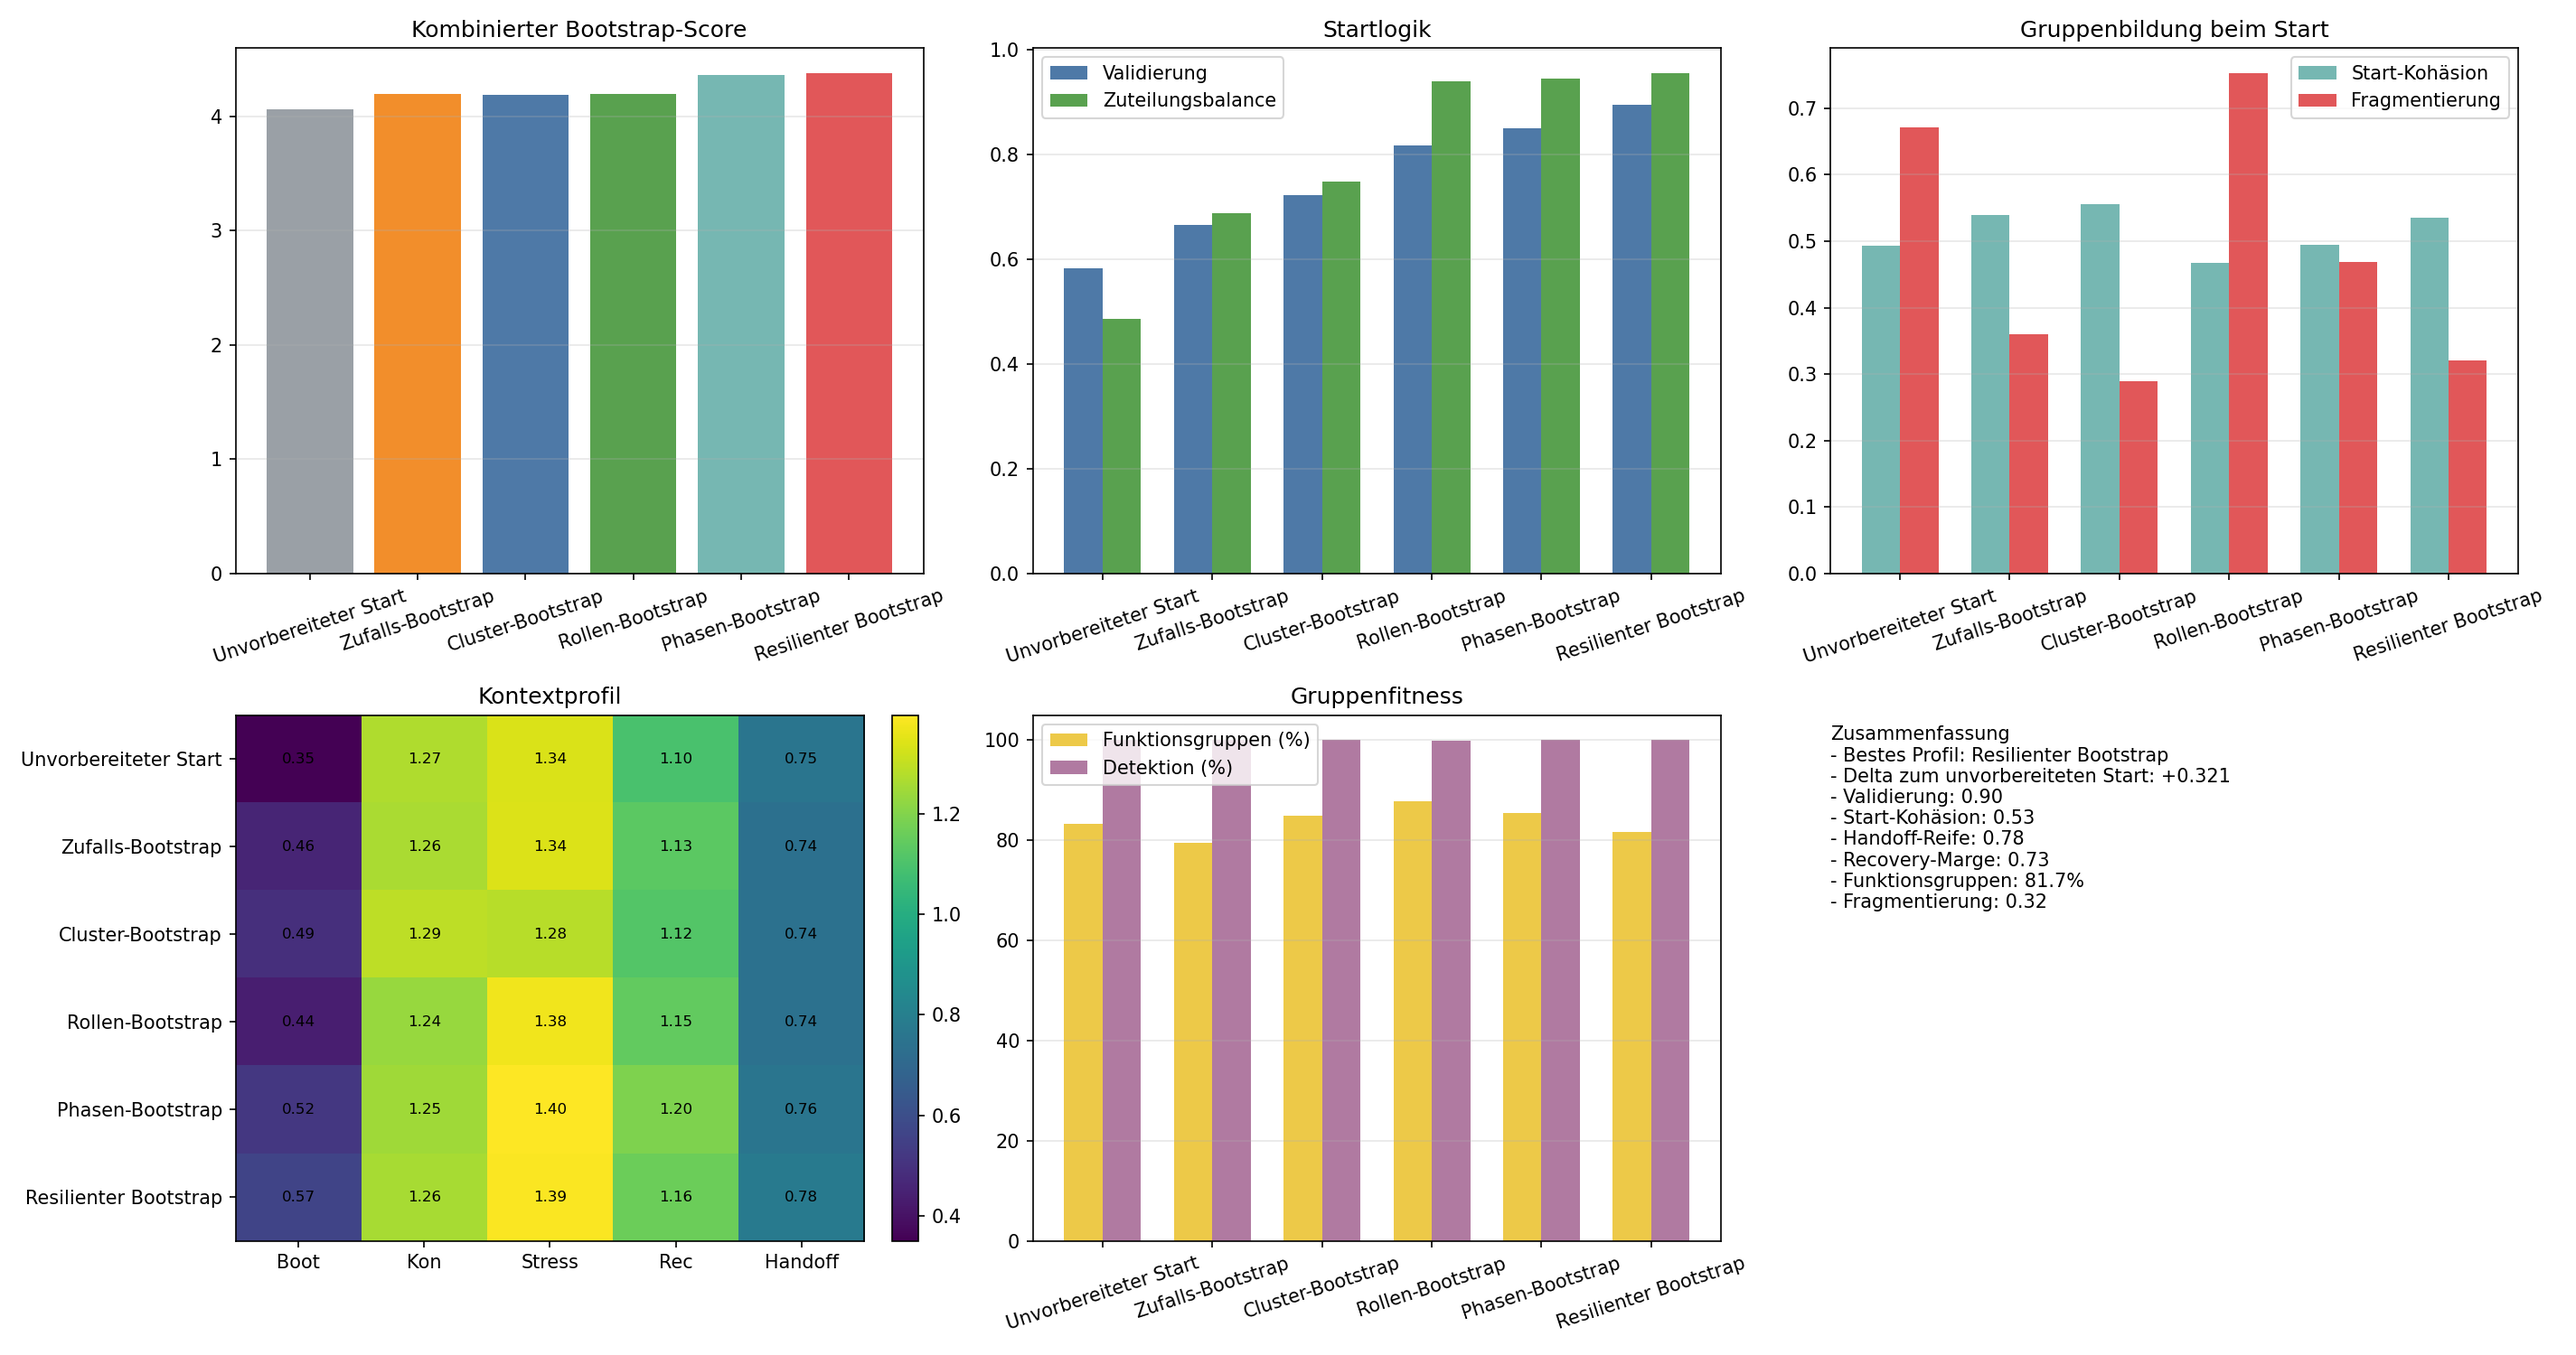
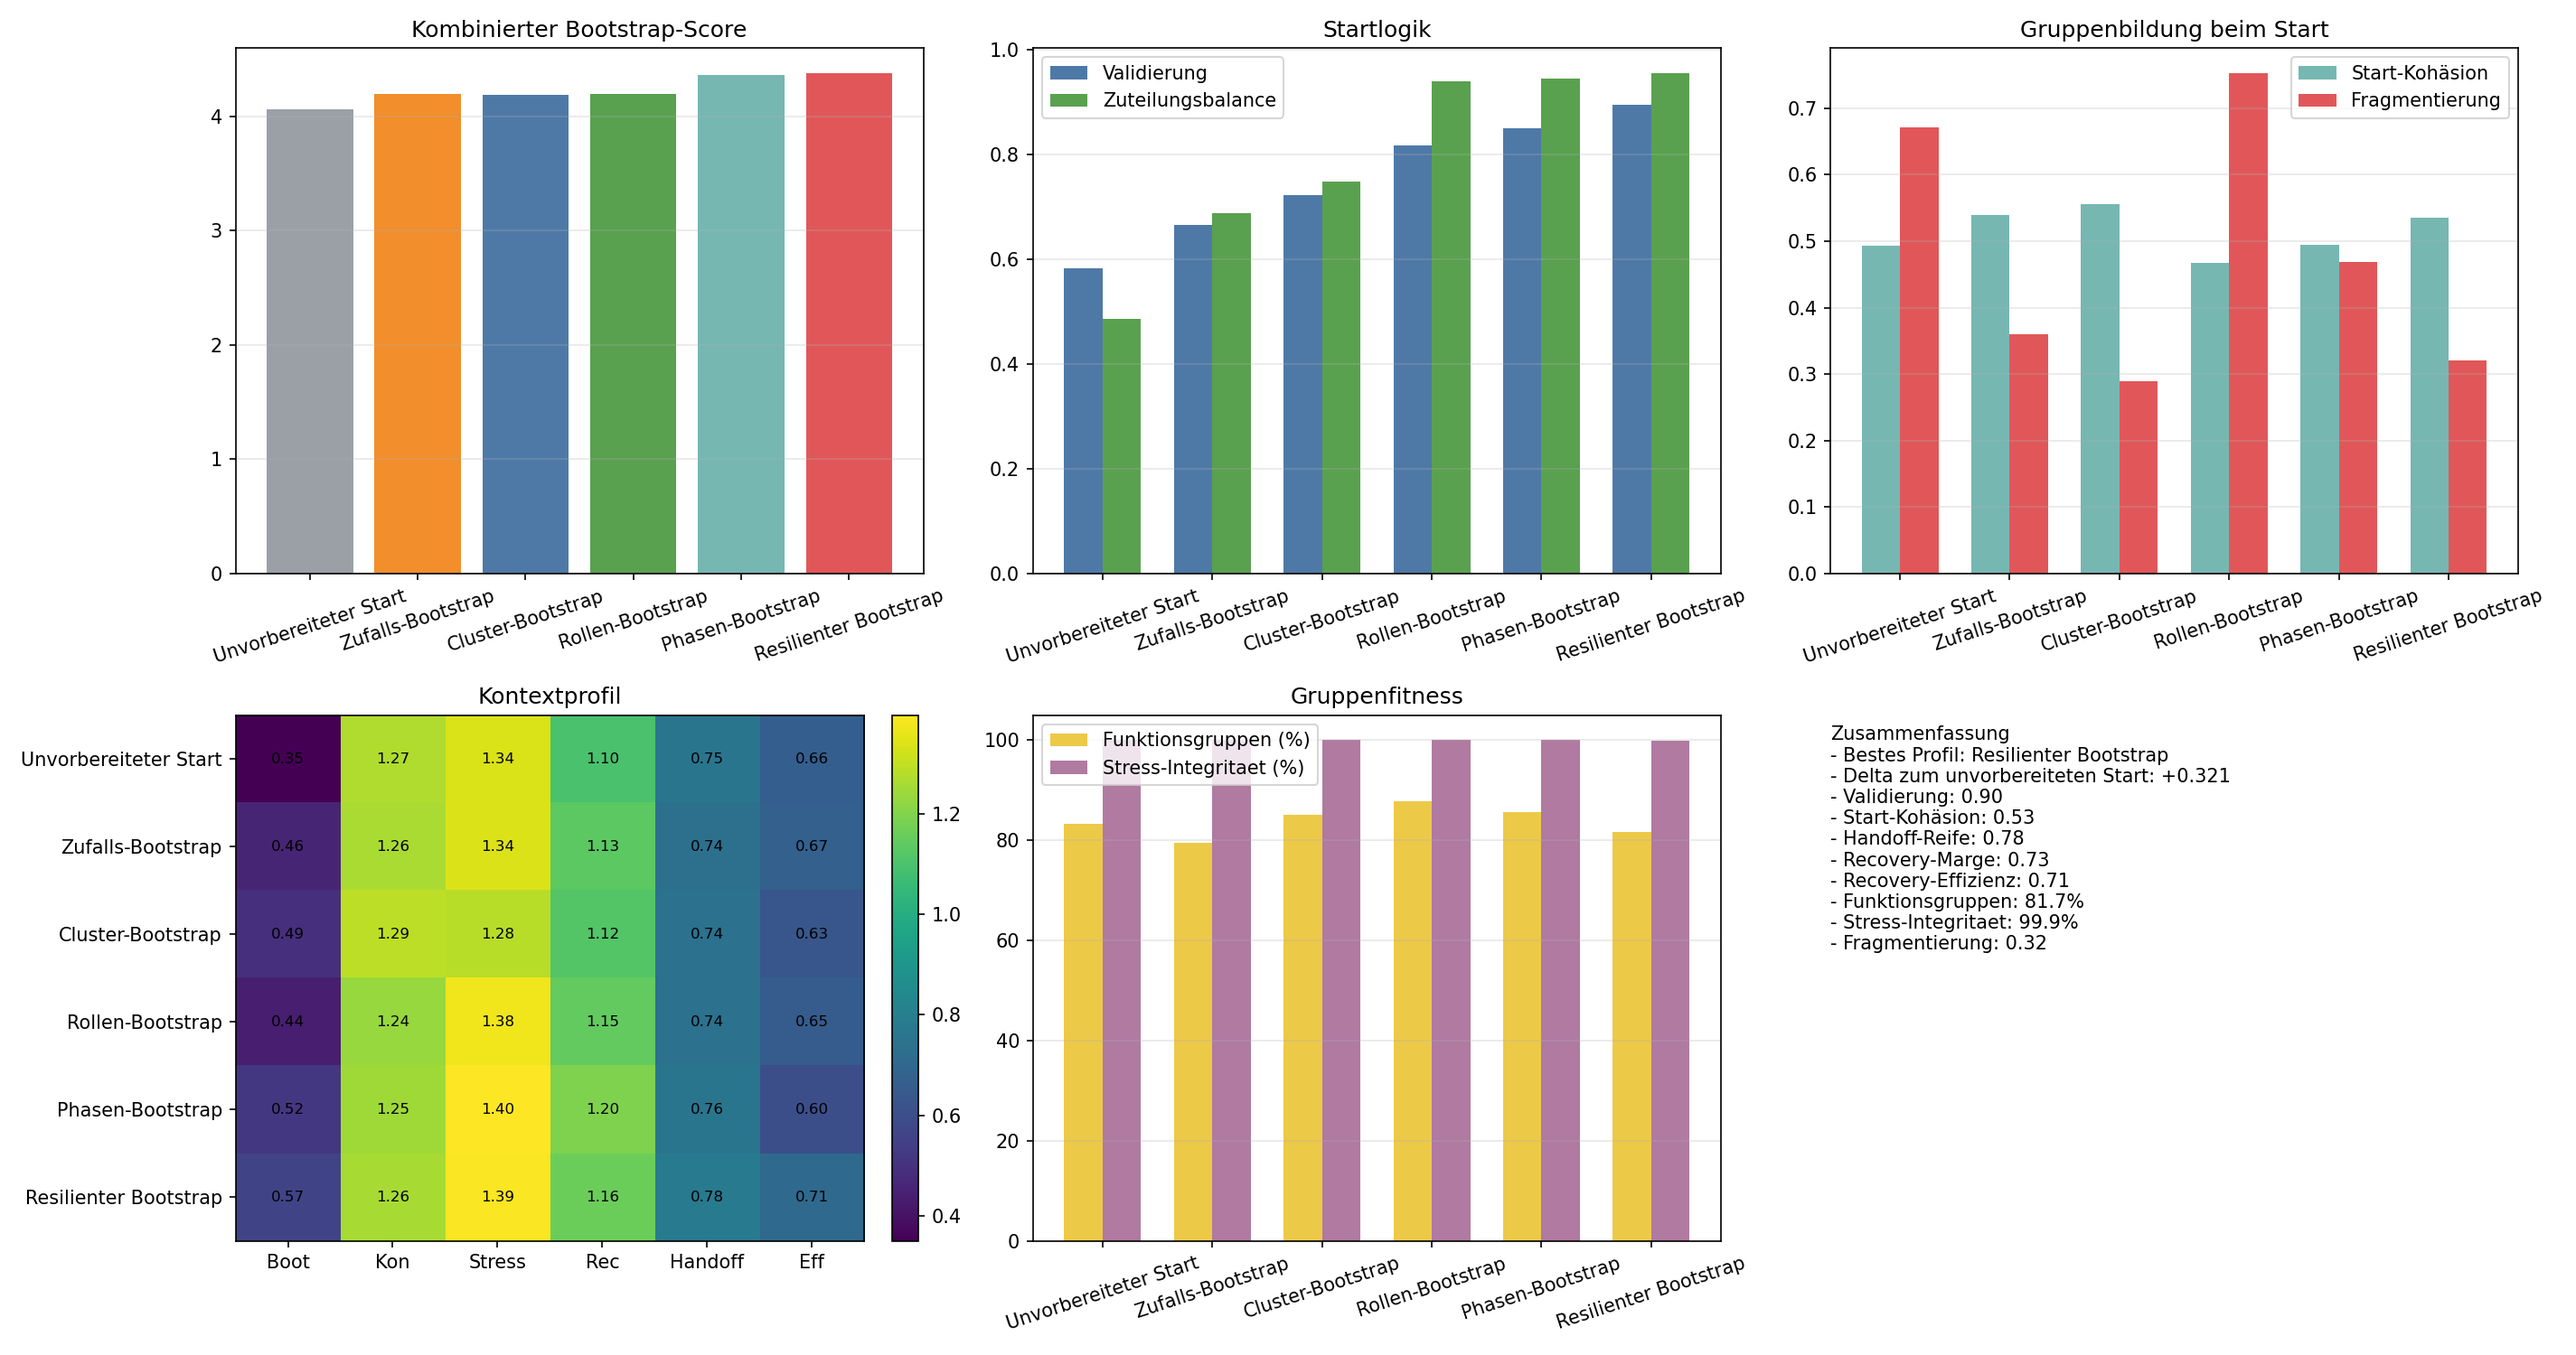
Refine bootstrap recovery metrics

diff --git a/schwarm_gruppenbootstrap.py b/schwarm_gruppenbootstrap.py
@@ -257,6 +257,11 @@ def bootstrap_metrics(config, result, params, bias):
     workflow = result['workflow_metrics']
     groups = gruppenmetriken(result['agents'], params)
     schema = schema_metrics(config)
+    corruption_mean = workflow.get('misinformation_corruption_mean', 0.0)
+    cluster_compromise_mean = workflow.get('cluster_compromise_mean', 0.0)
+    recovery_events_total = workflow.get('recovery_events_total', 0.0)
+    sync_strength_mean = workflow.get('sync_strength_mean', 0.0)
+    failed_agents_mean = workflow.get('failed_agents_mean', 0.0)
 
     proto_share = groups['proto_group_share']
     functional_share = groups['functional_group_share']
@@ -354,6 +359,21 @@ def bootstrap_metrics(config, result, params, bias):
         + 0.14 * schema['contract_risk']
         + 0.14 * max(0.0, 0.16 - proto_share) / 0.16
     )
+    failed_share = failed_agents_mean / max(1.0, params['agent_count'])
+    recovery_load = min(1.0, recovery_events_total / max(1.0, params['agent_count'] * 0.25))
+    stress_integrity = max(0.0, 1.0 - corruption_mean)
+    compromise_reserve = max(0.0, 1.0 - cluster_compromise_mean)
+    recovery_efficiency = clamp01(
+        mittelwert(
+            [
+                min(1.0, sync_strength_mean),
+                max(0.0, 1.0 - failed_share),
+                max(0.0, 1.0 - recovery_load),
+                recovery_margin,
+                compromise_reserve,
+            ]
+        )
+    )
 
     return {
         'completion_rate': workflow.get('completion_rate', 0.0),
@@ -365,12 +385,16 @@ def bootstrap_metrics(config, result, params, bias):
         'resource_share_rate': workflow.get('resource_share_rate', 0.0),
         'active_cells_mean': workflow.get('active_cells_mean', 0.0),
         'detection_rate': workflow.get('misinformation_detection_rate', 0.0),
-        'corruption_mean': workflow.get('misinformation_corruption_mean', 0.0),
-        'cluster_compromise_mean': workflow.get('cluster_compromise_mean', 0.0),
+        'corruption_mean': corruption_mean,
+        'stress_integrity': stress_integrity,
+        'cluster_compromise_mean': cluster_compromise_mean,
+        'compromise_reserve': compromise_reserve,
         'trust_shield_mean': workflow.get('trust_shield_mean', 0.0),
-        'recovery_events_total': workflow.get('recovery_events_total', 0.0),
-        'sync_strength_mean': workflow.get('sync_strength_mean', 0.0),
-        'failed_agents_mean': workflow.get('failed_agents_mean', 0.0),
+        'recovery_events_total': recovery_events_total,
+        'sync_strength_mean': sync_strength_mean,
+        'failed_agents_mean': failed_agents_mean,
+        'recovery_load': recovery_load,
+        'recovery_efficiency': recovery_efficiency,
         'mission_success': mittelwert(list(result.get('mission_success_rates', {}).values())),
         'cross_group_cooperation': result['cross_group_cooperation_rate'],
         'consensus': result['final_consensus_score'],
@@ -492,8 +516,12 @@ def summarize_runs(runs, eintrag, context_list, agent_count):
         'fragmentation_risk': {},
         'functional_group_share': {},
         'detection_rate': {},
+        'stress_integrity': {},
+        'compromise_reserve': {},
         'recovery_margin': {},
         'sync_strength_mean': {},
+        'recovery_load': {},
+        'recovery_efficiency': {},
     }
 
     for kontext in context_list:
@@ -548,7 +576,7 @@ def main():
             f"{summary['label']:<26} Score={summary['combined_score']:+.3f} | "
             f"Validierung={summary['startup_validation']['bootstrap']:.2f} | "
             f"Kohäsion={summary['startup_cohesion']['bootstrap']:.2f} | "
-            f"Fragmentierung={summary['fragmentation_risk']['bootstrap']:.2f}"
+            f"Recovery-Eff={summary['recovery_efficiency']['recovery']:.2f}"
         )
 
     best = max(summaries, key=lambda item: item['combined_score'])
@@ -562,7 +590,7 @@ def main():
     print(
         f"Validierung {best['startup_validation']['bootstrap']:.2f}, "
         f"Handoff-Reife {best['handoff_readiness']['bootstrap']:.2f}, "
-        f"Fragmentierung {best['fragmentation_risk']['bootstrap']:.2f}"
+        f"Recovery-Effizienz {best['recovery_efficiency']['recovery']:.2f}"
     )
 
     labels = [item['label'] for item in summaries]
@@ -626,6 +654,7 @@ def main():
                 item['context_scores']['stress'],
                 item['context_scores']['recovery'],
                 item['handoff_readiness']['bootstrap'],
+                item['recovery_efficiency']['recovery'],
             ]
             for item in summaries
         ],
@@ -633,8 +662,8 @@ def main():
     )
     heatmap = axes[1, 0].imshow(heatmap_data, cmap='viridis', aspect='auto')
     axes[1, 0].set_title('Kontextprofil')
-    axes[1, 0].set_xticks([0, 1, 2, 3, 4])
-    axes[1, 0].set_xticklabels(['Boot', 'Kon', 'Stress', 'Rec', 'Handoff'])
+    axes[1, 0].set_xticks([0, 1, 2, 3, 4, 5])
+    axes[1, 0].set_xticklabels(['Boot', 'Kon', 'Stress', 'Rec', 'Handoff', 'Eff'])
     axes[1, 0].set_yticks(range(len(labels)))
     axes[1, 0].set_yticklabels(labels)
     for row in range(heatmap_data.shape[0]):
@@ -651,9 +680,9 @@ def main():
     )
     axes[1, 1].bar(
         x + width / 2,
-        [item['detection_rate']['stress'] * 100.0 for item in summaries],
+        [item['stress_integrity']['stress'] * 100.0 for item in summaries],
         width,
-        label='Detektion (%)',
+        label='Stress-Integritaet (%)',
         color='#b07aa1',
     )
     axes[1, 1].set_title('Gruppenfitness')
@@ -674,7 +703,9 @@ def main():
             f"- Start-Kohäsion: {best['startup_cohesion']['bootstrap']:.2f}\n"
             f"- Handoff-Reife: {best['handoff_readiness']['bootstrap']:.2f}\n"
             f"- Recovery-Marge: {best['recovery_margin']['recovery']:.2f}\n"
+            f"- Recovery-Effizienz: {best['recovery_efficiency']['recovery']:.2f}\n"
             f"- Funktionsgruppen: {best['functional_group_share']['consensus']:.1%}\n"
+            f"- Stress-Integritaet: {best['stress_integrity']['stress']:.1%}\n"
             f"- Fragmentierung: {best['fragmentation_risk']['bootstrap']:.2f}"
         ),
         va='top',
